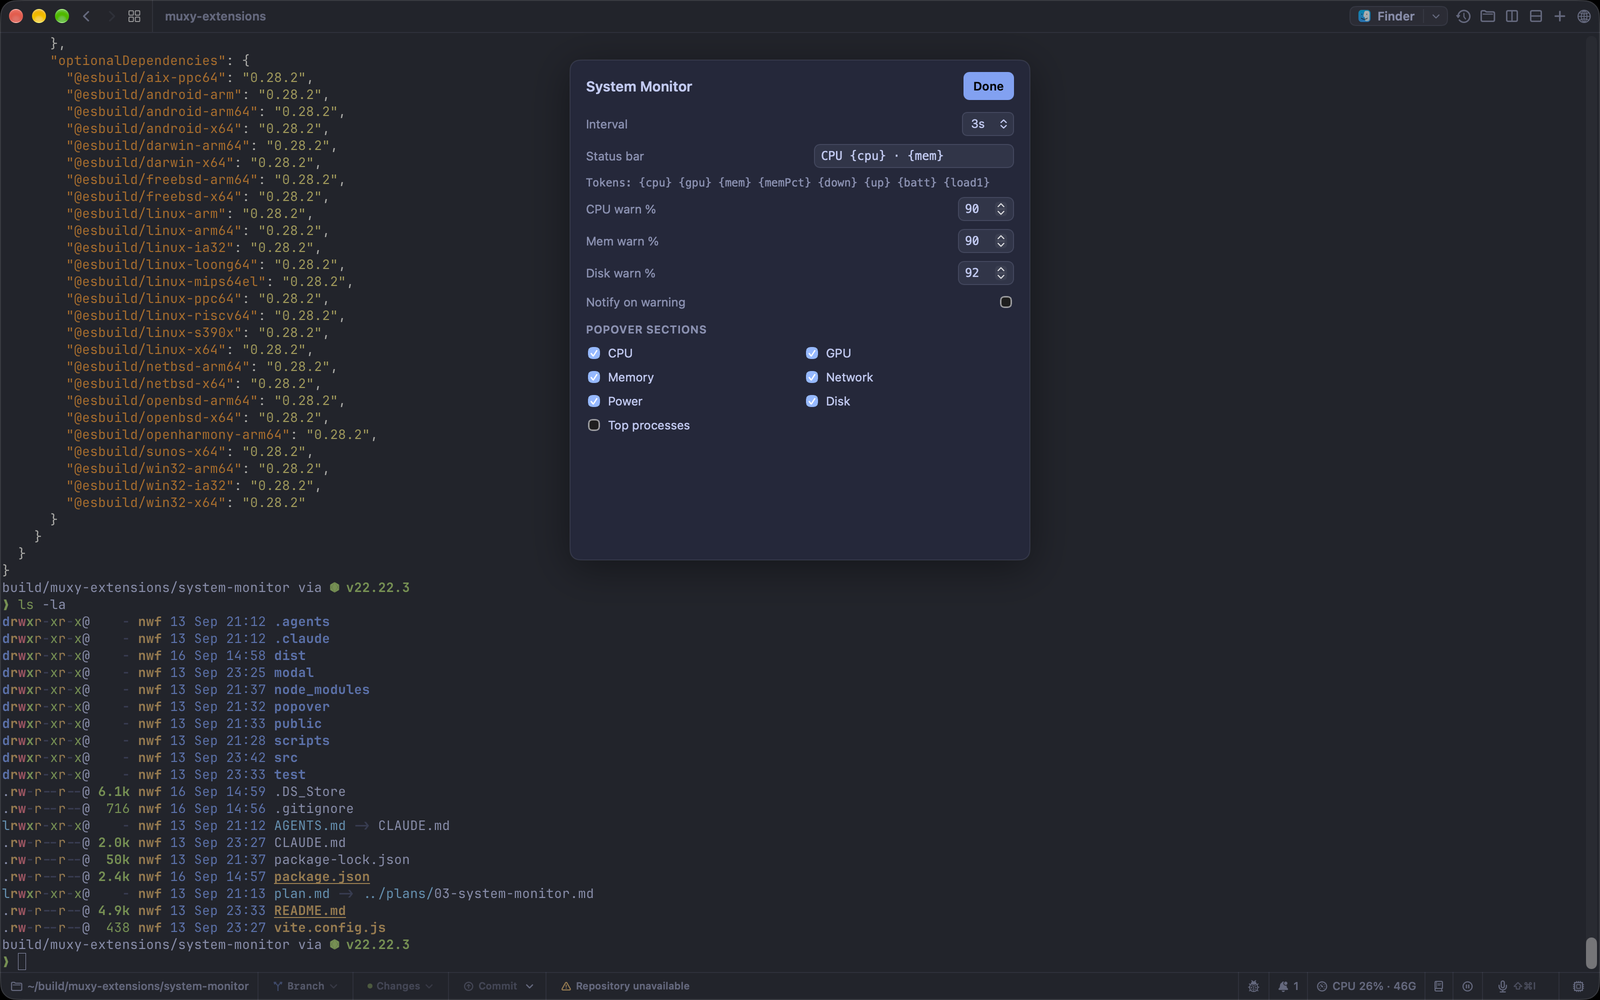
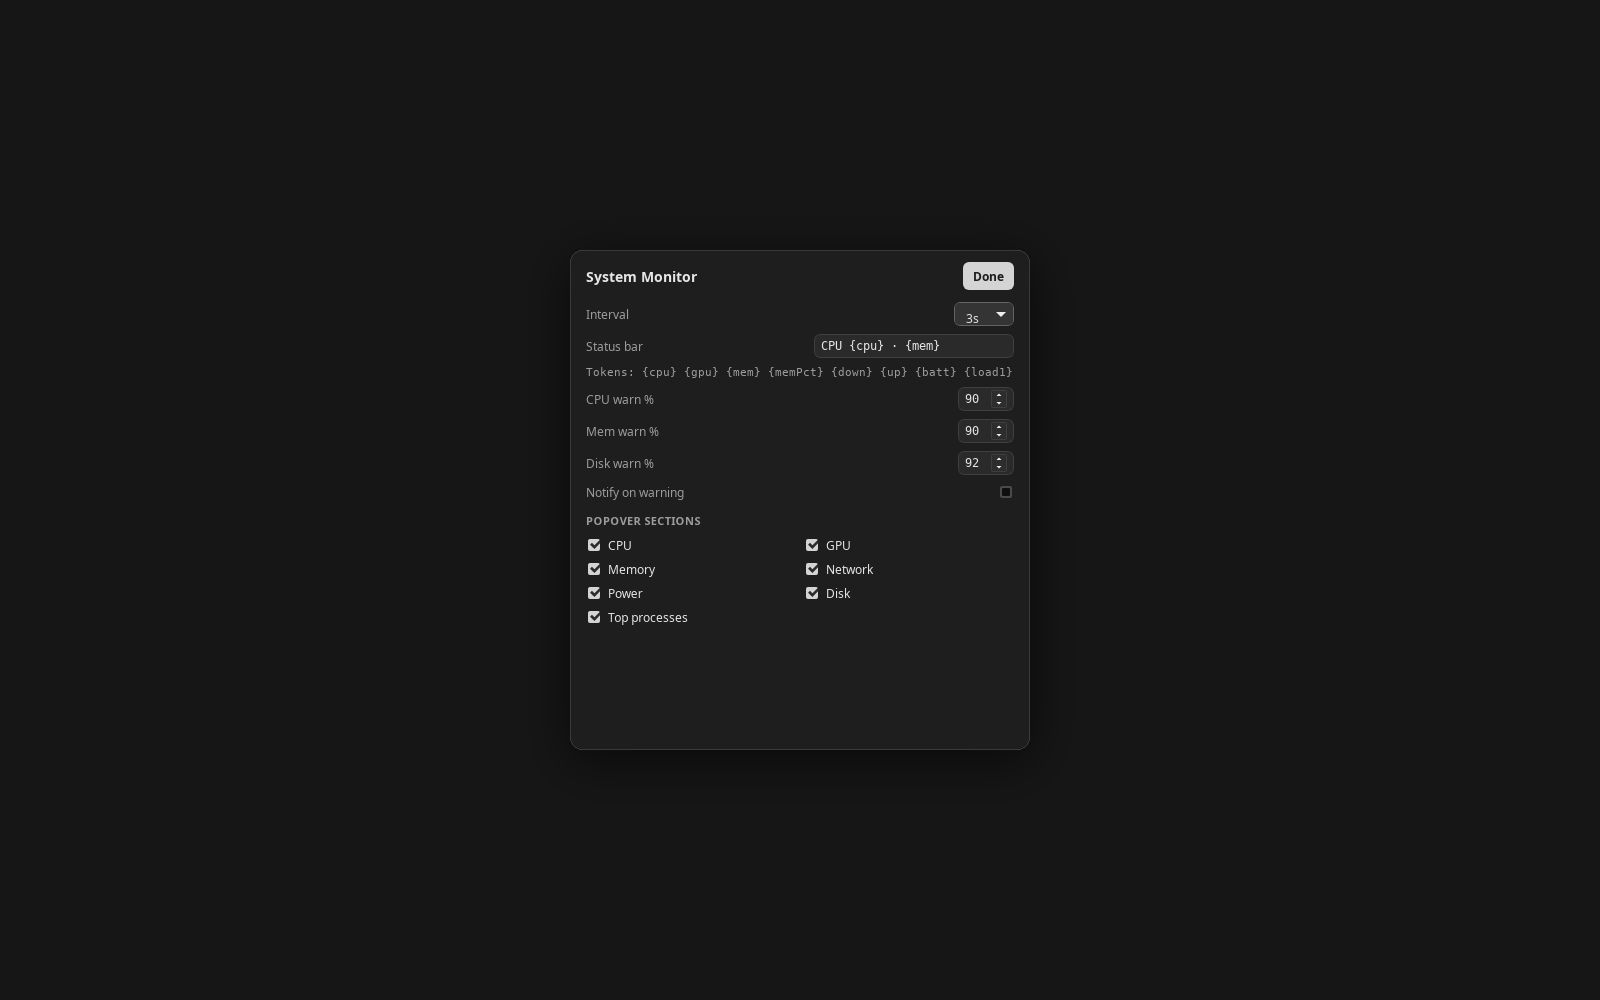
system-monitor 1.0.1: neutral listing screenshots, credits (#20)

Changed region(s): [[0.3438, 0.031, 0.6562, 0.775], [0.0, 0.0, 1.0, 1.0], [0.0, 0.0, 0.2188, 0.527]]

diff --git a/tools/harness/fixtures/system-monitor.js b/tools/harness/fixtures/system-monitor.js
@@ -1,0 +1,68 @@
+// Sample data for system-monitor: stands in for the background sampler by answering
+// extension.mon.* events with a believable machine snapshot.
+(() => {
+  const h = window.__harness;
+  const GB = 1024 ** 3;
+  const MB = 1024 ** 2;
+
+  h.memory.set("onboarded", true);
+
+  let seed = 11;
+  const rnd = () => { seed = (seed * 16807) % 2147483647; return seed / 2147483647; };
+  const series = (n, base, amp, floor = 0) => {
+    const out = [];
+    let v = base;
+    for (let i = 0; i < n; i += 1) {
+      v = Math.max(floor, Math.min(base + amp * 2, v + (rnd() - 0.5) * amp));
+      out.push(v);
+    }
+    return out;
+  };
+
+  const history = {
+    cpu: series(120, 32, 22, 4),
+    gpu: [],
+    down: series(120, 900 * 1024, 700 * 1024, 20 * 1024),
+    up: series(120, 140 * 1024, 120 * 1024, 4 * 1024),
+  };
+
+  const snapshot = {
+    at: Date.now(), os: "linux", stale: false,
+    cpu: { usage: 37.4 },
+    loadavg: [2.31, 2.08, 1.84],
+    mem: { usedB: 11.2 * GB, totalB: 32 * GB, appB: 7.9 * GB, wiredB: 2.1 * GB, compressedB: 1.2 * GB },
+    swap: { usedB: 640 * MB, totalB: 4 * GB },
+    net: { downBps: 1.6 * MB, upBps: 212 * 1024 },
+    gpu: null,
+    power: { battery: { percent: 78, state: "discharging", remaining: "4:12" } },
+    disk: { usedB: 412 * GB, sizeB: 931 * GB, pct: 44.3 },
+  };
+
+  const config = {
+    sections: { cpu: true, gpu: true, mem: true, net: true, power: true, disk: true, top: true },
+  };
+  const status = { paused: false, denied: {}, warn: {} };
+
+  const procs = [
+    ["node (vite dev)", 24.8, 612 * MB], ["rust-analyzer", 17.2, 1.4 * GB], ["Chromium", 12.6, 980 * MB],
+    ["tsserver", 9.3, 540 * MB], ["postgres", 4.1, 228 * MB], ["docker", 3.7, 396 * MB],
+    ["atur-terminal", 2.9, 310 * MB], ["pipewire", 1.2, 42 * MB], ["gnome-shell", 0.9, 288 * MB],
+    ["sshd", 0.1, 8 * MB],
+  ].map(([name, cpu, rssB], i) => ({ pid: 1200 + i * 37, name, cpu, rssB: Math.round(rssB) }));
+
+  h.set("dialog.confirm", async () => "Cancel");
+
+  const sub = window.atur.events.subscribe;
+  sub("extension.mon.hello", () => setTimeout(() => {
+    h.emit("extension.mon.state", { config, history, snapshot, status });
+    h.emit("extension.mon.procsResult", { denied: false, procs });
+  }, 30));
+
+  const sleep = (ms) => new Promise((resolve) => setTimeout(resolve, ms));
+  const until = async (test) => { for (let i = 0; i < 100 && !test(); i += 1) await sleep(100); };
+  window.addEventListener("load", async () => {
+    await until(() => document.querySelector(".proc-row"));
+    await sleep(600);
+    window.__ready = true;
+  });
+})();

diff --git a/extensions/system-monitor/README.md b/extensions/system-monitor/README.md
@@ -108,3 +108,7 @@ layout:
 Before publishing (see [contributing](https://github.com/dzulfikar08/atur-terminal/tree/main/docs/extensions)):
 fill in `marketplace.author` / `marketplace.github` in `package.json` and add
 a 1600×1000 screenshot at `public/assets/screenshots/1.png`.
+
+## Credits
+
+Originally published in muxy-app/extensions (MIT) by Nick Fay. Maintained by Atur Terminal.
